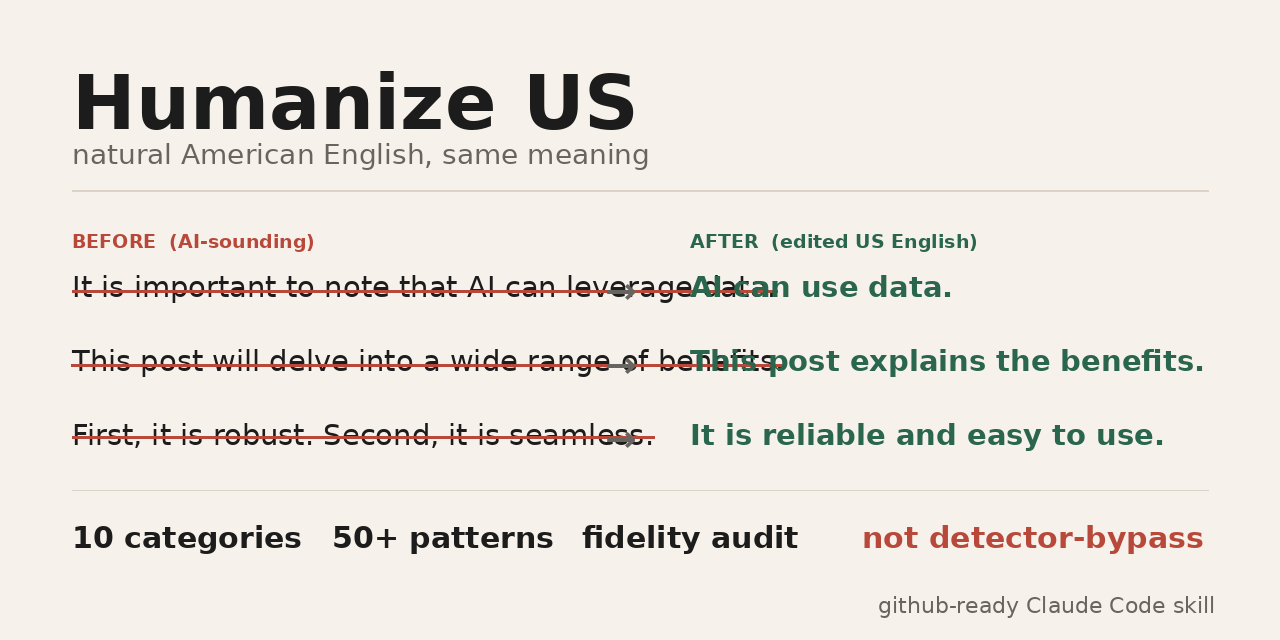
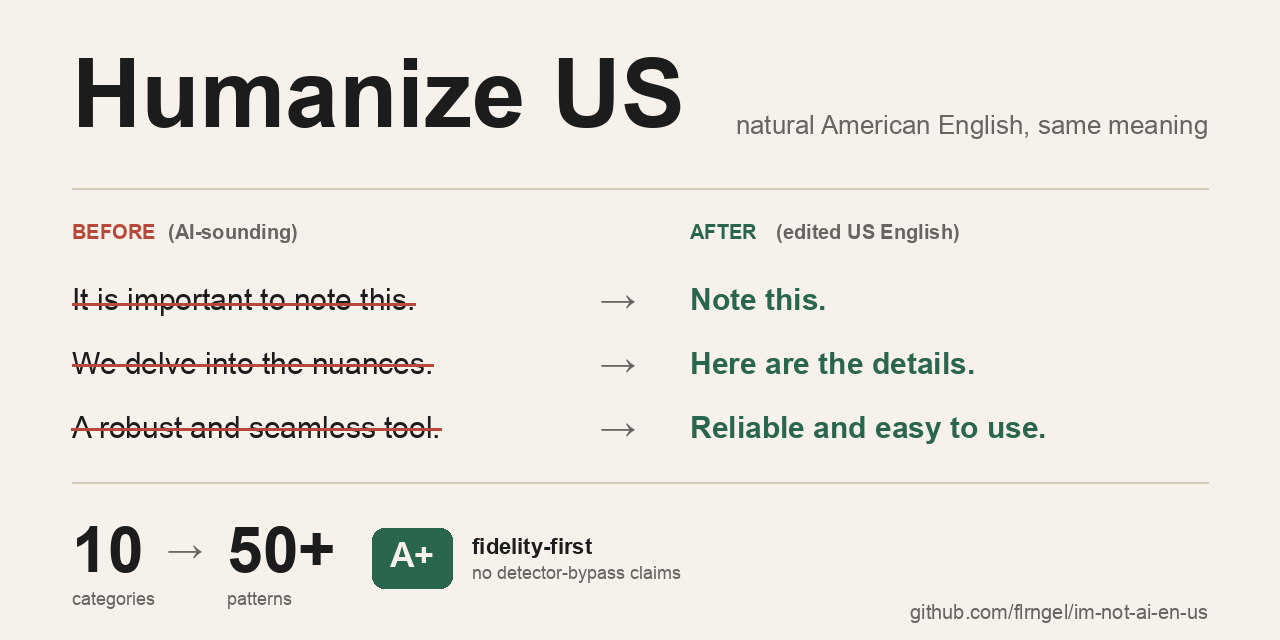
docs(assets): redesign social preview to match im-not-ai layout
Rebuild the BEFORE/AFTER thumbnail so columns no longer collide and the
bottom strip carries an A+ pill, "10 → 50+" stat block, and a github URL,
echoing the original im-not-ai card. Also adds macOS Arial to the font
fallback list.

diff --git a/scripts/make_thumbnail.py b/scripts/make_thumbnail.py
@@ -1,6 +1,8 @@
-"""Generate social preview thumbnail for Humanize US.
+"""Generate the social preview thumbnail for Humanize US.
 
-No fonts are bundled. The script uses common system fonts when available.
+The layout mirrors the original im-not-ai social card: a big wordmark, a
+two-column BEFORE/AFTER table with strikethroughs and arrows, and a stats
+strip across the bottom.
 """
 
 from pathlib import Path
@@ -9,19 +11,20 @@ from PIL import Image, ImageDraw, ImageFont
 OUT = Path(__file__).resolve().parent.parent / "assets" / "social-preview.png"
 OUT.parent.mkdir(parents=True, exist_ok=True)
 
-FONT_CANDIDATES = [
+REGULAR_CANDIDATES = [
+    "/System/Library/Fonts/Supplemental/Arial.ttf",
     "/usr/share/fonts/truetype/dejavu/DejaVuSans.ttf",
-    "/usr/share/fonts/truetype/dejavu/DejaVuSans-Bold.ttf",
     "/usr/share/fonts/truetype/liberation2/LiberationSans-Regular.ttf",
 ]
 BOLD_CANDIDATES = [
+    "/System/Library/Fonts/Supplemental/Arial Bold.ttf",
     "/usr/share/fonts/truetype/dejavu/DejaVuSans-Bold.ttf",
     "/usr/share/fonts/truetype/liberation2/LiberationSans-Bold.ttf",
 ]
 
 
-def font(size: int, bold: bool = False):
-    candidates = BOLD_CANDIDATES if bold else FONT_CANDIDATES
+def font(size: int, bold: bool = False) -> ImageFont.FreeTypeFont:
+    candidates = BOLD_CANDIDATES if bold else REGULAR_CANDIDATES
     for path in candidates:
         if Path(path).exists():
             return ImageFont.truetype(path, size)
@@ -32,48 +35,122 @@ W, H = 1280, 640
 BG = (246, 242, 235)
 INK = (28, 28, 28)
 MUTED = (104, 100, 96)
-DIVIDER = (220, 211, 198)
+DIVIDER = (210, 200, 186)
 BAD = (184, 73, 58)
 GOOD = (42, 101, 77)
+GOOD_BG = (224, 232, 222)
 
 img = Image.new("RGB", (W, H), BG)
 d = ImageDraw.Draw(img)
+
 PAD = 72
+COL_GAP_CENTER = 640
+ARROW_X = 600
+AFTER_X = 690
 
-# Header
-d.text((PAD, 58), "Humanize US", font=font(76, True), fill=INK)
+
+# ---------- header ----------
+title_font = font(96, bold=True)
+d.text((PAD, 40), "Humanize US", font=title_font, fill=INK)
+
 subtitle = "natural American English, same meaning"
-d.text((PAD, 138), subtitle, font=font(28), fill=MUTED)
-d.line([(PAD, 190), (W - PAD, 190)], fill=DIVIDER, width=2)
+sub_font = font(26)
+sub_w = d.textlength(subtitle, font=sub_font)
+d.text((W - PAD - sub_w, 110), subtitle, font=sub_font, fill=MUTED)
 
-# Labels
-d.text((PAD, 230), "BEFORE  (AI-sounding)", font=font(19, True), fill=BAD)
-d.text((W // 2 + 50, 230), "AFTER  (edited US English)", font=font(19, True), fill=GOOD)
+d.line([(PAD, 188), (W - PAD, 188)], fill=DIVIDER, width=2)
 
+
+# ---------- column labels ----------
+label_font = font(20, bold=True)
+d.text((PAD, 220), "BEFORE", font=label_font, fill=BAD)
+d.text((PAD + 96, 220), "(AI-sounding)", font=label_font, fill=MUTED)
+
+d.text((AFTER_X, 220), "AFTER", font=label_font, fill=GOOD)
+d.text((AFTER_X + 86, 220), "(edited US English)", font=label_font, fill=MUTED)
+
+
+# ---------- before / after rows ----------
 rows = [
-    ("It is important to note that AI can leverage data.", "AI can use data."),
-    ("This post will delve into a wide range of benefits.", "This post explains the benefits."),
-    ("First, it is robust. Second, it is seamless.", "It is reliable and easy to use."),
+    ("It is important to note this.", "Note this."),
+    ("We delve into the nuances.", "Here are the details."),
+    ("A robust and seamless tool.", "Reliable and easy to use."),
 ]
 
-y = 270
+row_font = font(30)
+row_font_bold = font(30, bold=True)
+arrow_font = font(36, bold=True)
+
+y = 282
 for before, after in rows:
-    d.text((PAD, y), before, font=font(29), fill=INK)
-    # strike approximate line
-    bbox = d.textbbox((PAD, y), before, font=font(29))
-    d.line([(bbox[0], (bbox[1]+bbox[3])//2+2), (bbox[2], (bbox[1]+bbox[3])//2+2)], fill=BAD, width=3)
-    d.text((W // 2 - 35, y - 2), "→", font=font(38, True), fill=MUTED)
-    d.text((W // 2 + 50, y), after, font=font(29, True), fill=GOOD)
-    y += 74
+    d.text((PAD, y), before, font=row_font, fill=INK)
+    bbox = d.textbbox((PAD, y), before, font=row_font)
+    mid = (bbox[1] + bbox[3]) // 2 + 2
+    d.line([(bbox[0], mid), (bbox[2], mid)], fill=BAD, width=3)
 
-# Stats
-d.line([(PAD, 490), (W - PAD, 490)], fill=DIVIDER, width=1)
-d.text((PAD, 520), "10 categories", font=font(30, True), fill=INK)
-d.text((PAD + 260, 520), "50+ patterns", font=font(30, True), fill=INK)
-d.text((PAD + 510, 520), "fidelity audit", font=font(30, True), fill=INK)
-d.text((PAD + 790, 520), "not detector-bypass", font=font(30, True), fill=BAD)
+    d.text((ARROW_X, y - 4), "→", font=arrow_font, fill=MUTED)
 
-d.text((W - PAD - 330, H - 48), "github-ready Claude Code skill", font=font(22), fill=MUTED)
+    d.text((AFTER_X, y), after, font=row_font_bold, fill=GOOD)
+    y += 64
+
+
+# ---------- stats strip ----------
+d.line([(PAD, 482), (W - PAD, 482)], fill=DIVIDER, width=2)
+
+
+# big "10 → 50+" headline-stat block, echoing the inspiration's score
+big_font = font(64, bold=True)
+small_label = font(18)
+
+d.text((PAD, 514), "10", font=big_font, fill=INK)
+ten_w = d.textlength("10", font=big_font)
+d.text((PAD, 588), "categories", font=small_label, fill=MUTED)
+
+d.text((PAD + ten_w + 24, 528), "→", font=arrow_font, fill=MUTED)
+
+mid_x = PAD + ten_w + 24 + 60
+d.text((mid_x, 514), "50+", font=big_font, fill=INK)
+fifty_w = d.textlength("50+", font=big_font)
+d.text((mid_x, 588), "patterns", font=small_label, fill=MUTED)
+
+
+# A+ pill badge
+pill_x = mid_x + fifty_w + 36
+pill_y = 528
+pill_text = "A+"
+pill_font = font(34, bold=True)
+pill_w = d.textlength(pill_text, font=pill_font) + 36
+pill_h = 60
+d.rounded_rectangle(
+    [(pill_x, pill_y), (pill_x + pill_w, pill_y + pill_h)],
+    radius=12,
+    fill=GOOD,
+)
+d.text((pill_x + 18, pill_y + 8), pill_text, font=pill_font, fill=BG)
+
+
+# fidelity-first tag next to the pill
+tag_font = font(22, bold=True)
+d.text(
+    (pill_x + pill_w + 20, pill_y + 6),
+    "fidelity-first",
+    font=tag_font,
+    fill=INK,
+)
+d.text(
+    (pill_x + pill_w + 20, pill_y + 34),
+    "no detector-bypass claims",
+    font=font(18),
+    fill=MUTED,
+)
+
+
+# bottom-right URL
+url = "github.com/flrngel/im-not-ai-en-us"
+url_font = font(20)
+url_w = d.textlength(url, font=url_font)
+d.text((W - PAD - url_w, H - 40), url, font=url_font, fill=MUTED)
+
 
 img.save(OUT, "PNG", optimize=True)
 print(f"saved: {OUT}")
